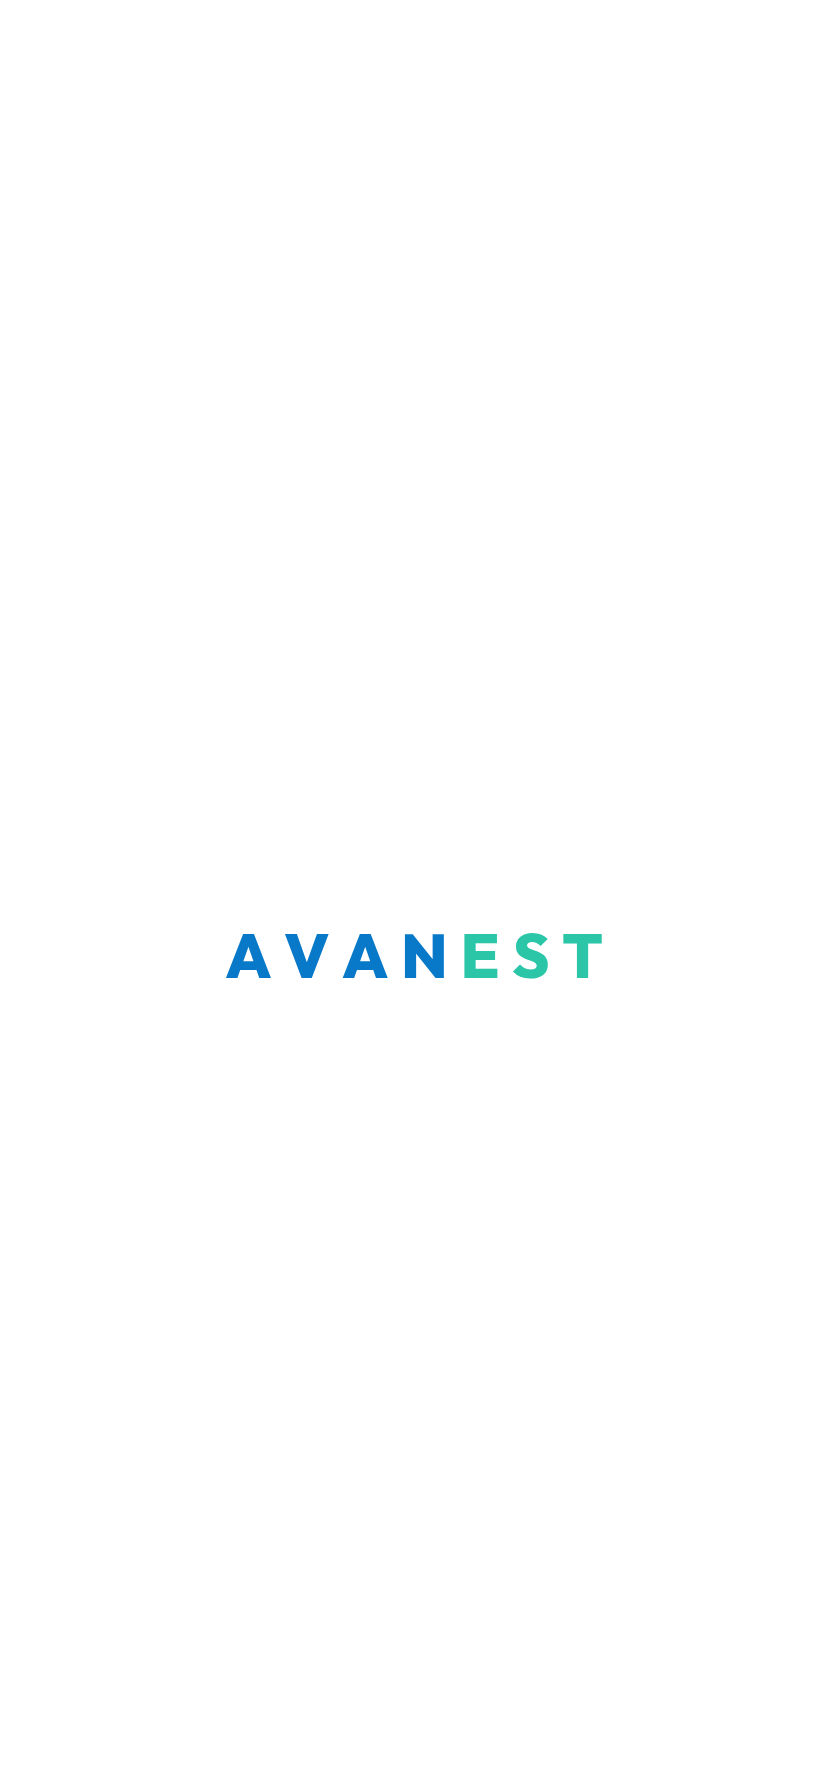
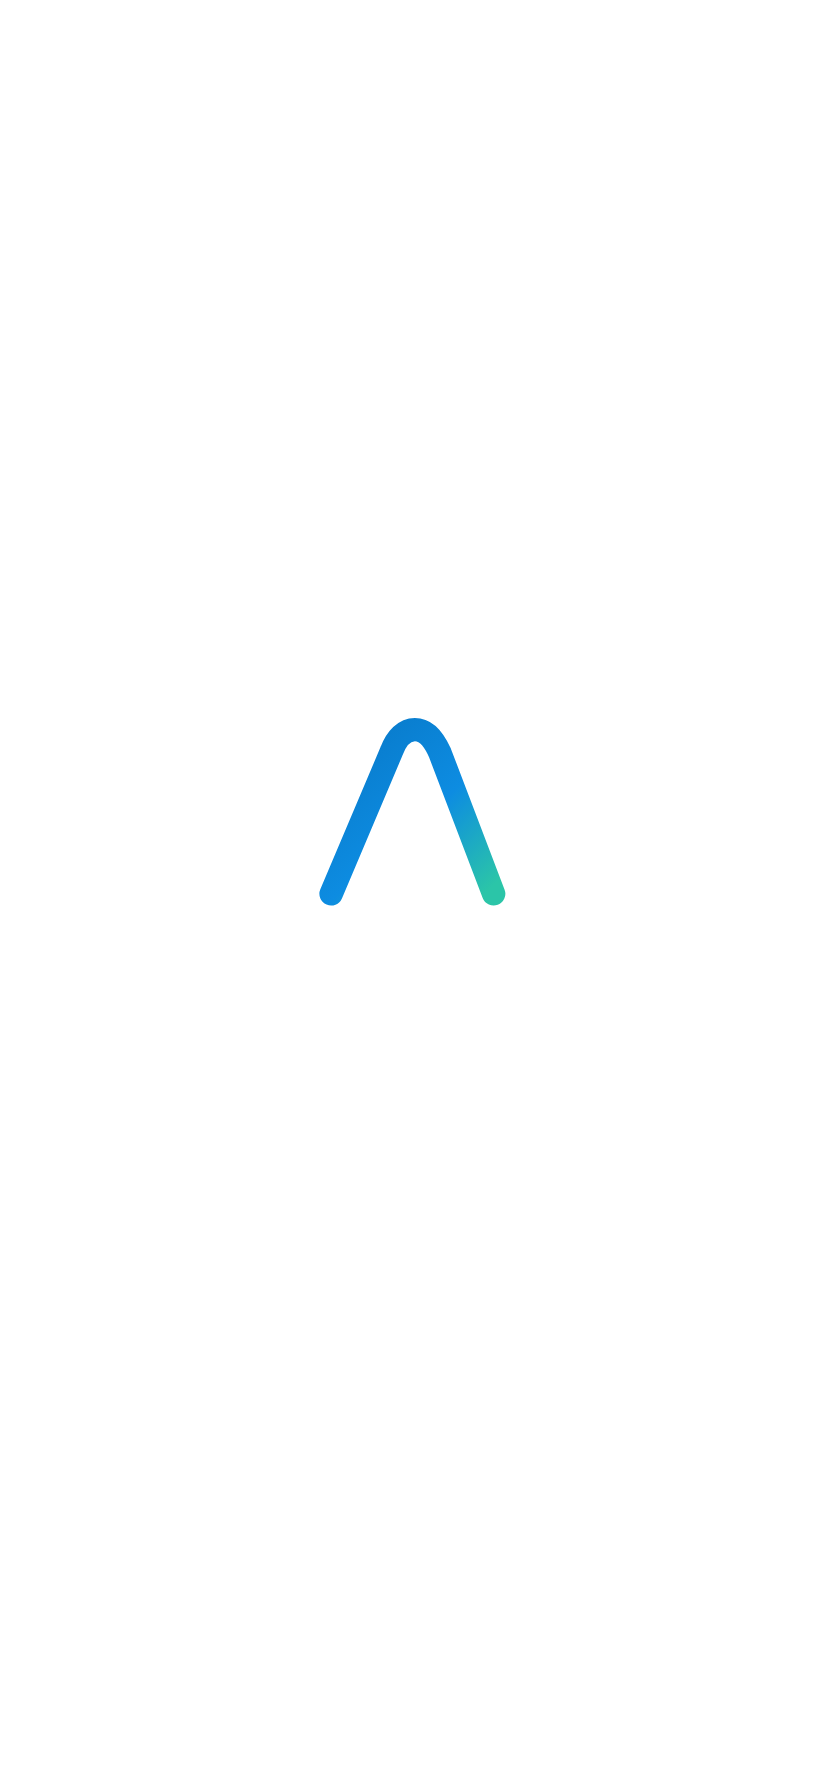
O Λ abre a marca, e o nome vem depois dele
A ordem pedida é Λ, nome, slogan. O traço risca a tela primeiro, a palavra se
monta embaixo dele, e o slogan assina no fim.

    o Λ fica pronto   0,44s
    o nome            0,80s
    o slogan          1,00s
    a cortina saiu    1,34s

Mesmo tempo total das versões anteriores: a troca coube dentro do relógio.

ISSO INVERTE AS 22 IMAGENS DO iOS, e é por isso que elas vêm no mesmo commit.
Elas mostravam o nome; passam a mostrar o Λ desenhado, sozinho.

E NÃO O QUADRO ZERO, que agora seria a tela vazia — tela branca é exatamente o
problema que estas imagens existem para resolver: o aplicativo pareceria
travado por um segundo, e um segundo de tela vazia basta para a pessoa achar
que não abriu e tocar de novo. O primeiro quadro DESENHADO é o Λ pronto, e é
ele que a imagem traz. A emenda continua invisível:

    iOS mostra o Λ  →  o site assume  →  o nome entra  →  o slogan fecha

O nome e o slogan saem da imagem com `visibility`, e não com `display`: só
`visibility` tira a tinta MANTENDO o espaço. Com `display:none` as linhas
sumiriam do cálculo e o Λ desceria — o tranco que a reserva de espaço existe
para evitar. Conferido: na imagem o Λ está em 45,2% da altura, que é onde ele
fica no logo original e onde o site continua desenhando.

Quem abre pelo ícone tem o Λ pronto pela imagem, então ele não é redesenhado —
riscar duas vezes o mesmo traço lê como travamento. Só o nome e o slogan
entram, e a tela libera em 1,03s.
[…]

Changed region(s): [[0.2717, 0.375, 0.6643, 0.5625], [0.6944, 0.5, 0.7246, 0.5625]]

diff --git a/app/globals.css b/app/globals.css
@@ -3982,11 +3982,11 @@ input[type="date"]::-webkit-calendar-picker-indicator{margin-inline-start:auto}
 /* ============================================================================
    A abertura animada da marca
    ----------------------------------------------------------------------------
-   A ordem e o pedido: O NOME, DEPOIS O Λ, E O SLOGAN POR ULTIMO. E a razao de
-   o simbolo E o slogan ja terem o espaco deles reservado desde o quadro zero —
-   se entrassem empurrando, o nome escorregaria no meio da animacao e o olho
-   leria um tranco, nao uma revelacao. O slogan ocupa o lugar dele o tempo
-   todo; o que muda e so ele estar ou nao pintado.
+   A ordem e o pedido: O Λ SE DESENHA, DEPOIS O NOME, E O SLOGAN POR ULTIMO.
+   Os tres tem o espaco deles reservado desde o quadro zero — se entrassem
+   empurrando, o que ja esta na tela escorregaria no meio da animacao e o olho
+   leria um tranco, nao uma revelacao. Cada um ocupa o lugar dele o tempo todo;
+   o que muda e so estar ou nao pintado.
 
    A emenda com a tela de abertura do iPhone: aquela imagem mostra so o nome,
    que e exatamente o primeiro quadro daqui. O iOS desenha o nome, o site
@@ -3996,17 +3996,17 @@ input[type="date"]::-webkit-calendar-picker-indicator{margin-inline-start:auto}
    pintado, e um componente de cliente so monta depois da hidratacao — a pessoa
    veria o painel e entao uma cortina caindo por cima dele.
 
-   O RELOGIO INTEIRO, e ele e curto de proposito: o nome termina de entrar em
-   0,49s, o Λ em 0,80s, o slogan em 1,04s, e a cortina saiu em 1,38s. A
-   primeira versao levava 2,65s e ficou lenta de ver — abertura de marca e
-   assinatura, nao espera. Quem entra pelo icone ja tem o nome desenhado pela
-   imagem do iOS e sai em 1,10s.
+   O RELOGIO INTEIRO, e ele e curto de proposito: o Λ fica pronto em 0,44s, o
+   nome em 0,80s, o slogan em 1,00s, e a cortina saiu em 1,34s. A primeira
+   versao levava 2,65s e ficou lenta de ver — abertura de marca e assinatura,
+   nao espera. Quem entra pelo icone ja tem o Λ desenhado pela imagem do iOS e
+   sai em 1,03s.
    ========================================================================== */
 .abertura{position:fixed;inset:0;z-index:9999;display:grid;place-items:center;
   background:#fff;
   /* `forwards` e o que faz a cortina sumir SEM JavaScript. Se o roteiro
      falhar, a abertura termina do mesmo jeito e ninguem fica preso atras. */
-  animation:aberturaSai .28s ease-in 1.10s forwards}
+  animation:aberturaSai .28s ease-in 1.06s forwards}
 /* Quem ja viu nesta sessao nao ve de novo. A classe e posta por um roteiro
    embutido no <head>, antes da primeira pintura — depois dela ja seria tarde,
    a cortina teria piscado. */
@@ -4047,18 +4047,18 @@ input[type="date"]::-webkit-calendar-picker-indicator{margin-inline-start:auto}
 
 /* --- o quadro zero: o nome invisivel, o simbolo com o espaco ja guardado --- */
 .marcaAvanest.animada .marcaNome span{opacity:0;transform:translateY(10px);
-  animation:aberturaLetra .28s cubic-bezier(.2,.7,.3,1) forwards}
-.marcaAvanest.animada .marcaNome span:nth-child(1){animation-delay:0s}
-.marcaAvanest.animada .marcaNome span:nth-child(2){animation-delay:.035s}
-.marcaAvanest.animada .marcaNome span:nth-child(3){animation-delay:.07s}
-.marcaAvanest.animada .marcaNome span:nth-child(4){animation-delay:.105s}
-.marcaAvanest.animada .marcaNome span:nth-child(5){animation-delay:.14s}
-.marcaAvanest.animada .marcaNome span:nth-child(6){animation-delay:.175s}
-.marcaAvanest.animada .marcaNome span:nth-child(7){animation-delay:.21s}
+  animation:aberturaLetra .26s cubic-bezier(.2,.7,.3,1) forwards}
+.marcaAvanest.animada .marcaNome span:nth-child(1){animation-delay:.36s}
+.marcaAvanest.animada .marcaNome span:nth-child(2){animation-delay:.39s}
+.marcaAvanest.animada .marcaNome span:nth-child(3){animation-delay:.42s}
+.marcaAvanest.animada .marcaNome span:nth-child(4){animation-delay:.45s}
+.marcaAvanest.animada .marcaNome span:nth-child(5){animation-delay:.48s}
+.marcaAvanest.animada .marcaNome span:nth-child(6){animation-delay:.51s}
+.marcaAvanest.animada .marcaNome span:nth-child(7){animation-delay:.54s}
 @keyframes aberturaLetra{to{opacity:1;transform:translateY(0)}}
 
 .marcaAvanest.animada .marcaSlogan{opacity:0;
-  animation:aberturaSlogan .26s ease-out .78s forwards}
+  animation:aberturaSlogan .24s ease-out .76s forwards}
 @keyframes aberturaSlogan{from{opacity:0;letter-spacing:.45em}
   to{opacity:1;letter-spacing:.317em}}
 
@@ -4072,22 +4072,29 @@ input[type="date"]::-webkit-calendar-picker-indicator{margin-inline-start:auto}
    deslocamento descesse de 224, e o primeiro terco da animacao seria tela
    parada. Foi exatamente o que aconteceu na primeira versao disto. */
 .marcaAvanest.animada .marcaSimbolo path{stroke-dasharray:226;stroke-dashoffset:226;
-  animation:aberturaTraco .46s cubic-bezier(.4,0,.25,1) .34s forwards}
+  animation:aberturaTraco .44s cubic-bezier(.4,0,.25,1) 0s forwards}
 @keyframes aberturaTraco{to{stroke-dashoffset:0}}
 
 /* --- chegando pelo icone: o nome ja veio pronto na imagem do iOS ---
-   Quem abre pelo icone acabou de ver o nome desenhado. Repetir a entrada das
-   letras seria montar duas vezes a mesma palavra, e o olho le isso como
-   travamento. Aqui o nome ja entra pronto e a animacao continua de onde a
-   imagem do iOS parou: o Λ se desenha, e o slogan fecha a marca.
+   Quem abre pelo icone acabou de ver o Λ desenhado. Redesenha-lo seria riscar
+   duas vezes o mesmo traco, e o olho le isso como travamento. Aqui o Λ ja
+   entra pronto e a animacao continua de onde a imagem do iOS parou: o nome
+   entra, e o slogan fecha a marca.
 
-   O SLOGAN CONTINUA ANIMANDO NESTE CAMINHO, ao contrario do nome — a imagem do
-   iOS tambem nao o traz, entao ele nao foi visto antes e nao ha o que repetir.
-   A cortina sai antes so porque a parte que falta e mais curta. */
-.vindoDoIcone .abertura{animation-delay:.82s}
-.vindoDoIcone .marcaAvanest.animada .marcaNome span{opacity:1;transform:none;animation:none}
-.vindoDoIcone .marcaAvanest.animada .marcaSimbolo path{animation-delay:.05s}
-.vindoDoIcone .marcaAvanest.animada .marcaSlogan{animation-delay:.49s}
+   O NOME E O SLOGAN CONTINUAM ANIMANDO NESTE CAMINHO, ao contrario do Λ — a
+   imagem do iOS nao traz nenhum dos dois, entao nao foram vistos antes e nao
+   ha o que repetir. A cortina sai antes so porque a parte que falta e mais
+   curta. */
+.vindoDoIcone .abertura{animation-delay:.75s}
+.vindoDoIcone .marcaAvanest.animada .marcaSimbolo path{stroke-dashoffset:0;animation:none}
+.vindoDoIcone .marcaAvanest.animada .marcaNome span:nth-child(1){animation-delay:.05s}
+.vindoDoIcone .marcaAvanest.animada .marcaNome span:nth-child(2){animation-delay:.08s}
+.vindoDoIcone .marcaAvanest.animada .marcaNome span:nth-child(3){animation-delay:.11s}
+.vindoDoIcone .marcaAvanest.animada .marcaNome span:nth-child(4){animation-delay:.14s}
+.vindoDoIcone .marcaAvanest.animada .marcaNome span:nth-child(5){animation-delay:.17s}
+.vindoDoIcone .marcaAvanest.animada .marcaNome span:nth-child(6){animation-delay:.20s}
+.vindoDoIcone .marcaAvanest.animada .marcaNome span:nth-child(7){animation-delay:.23s}
+.vindoDoIcone .marcaAvanest.animada .marcaSlogan{animation-delay:.45s}
 
 /* Quem pediu menos movimento recebe a marca pronta, e a cortina sai logo. Nao
    e "sem animacao nenhuma": sumir de uma vez seria um pisca-pisca, que e
